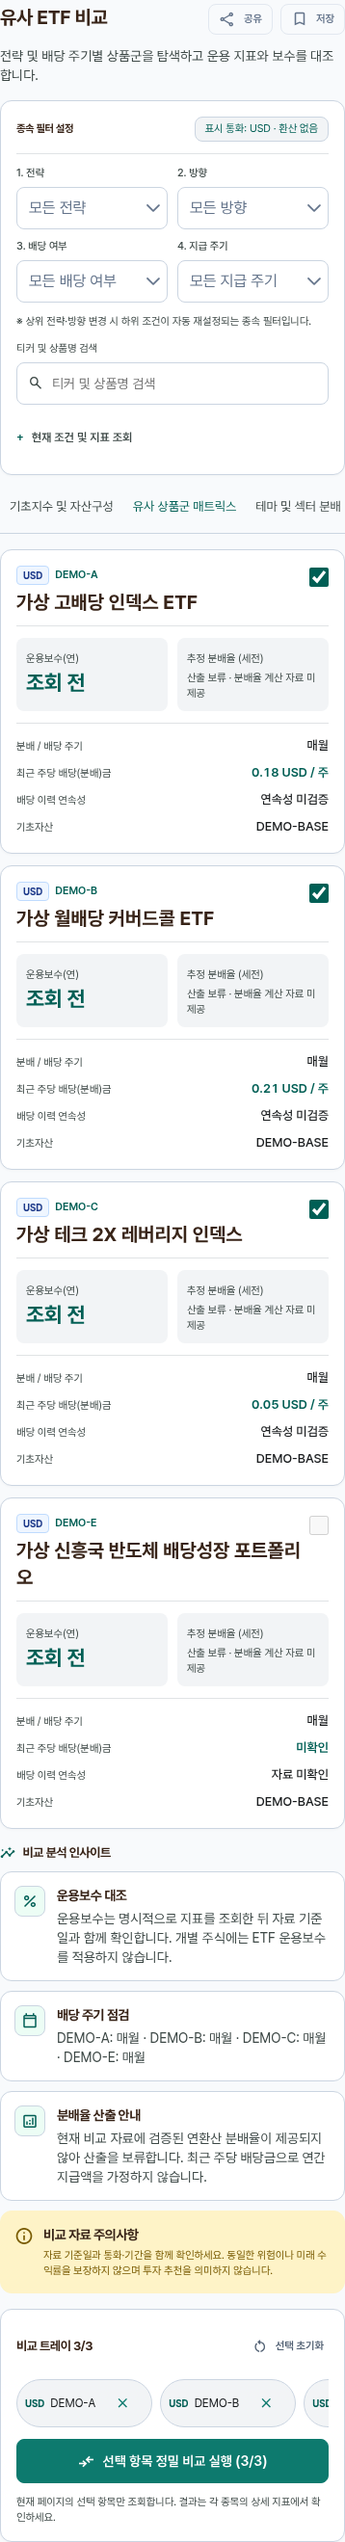
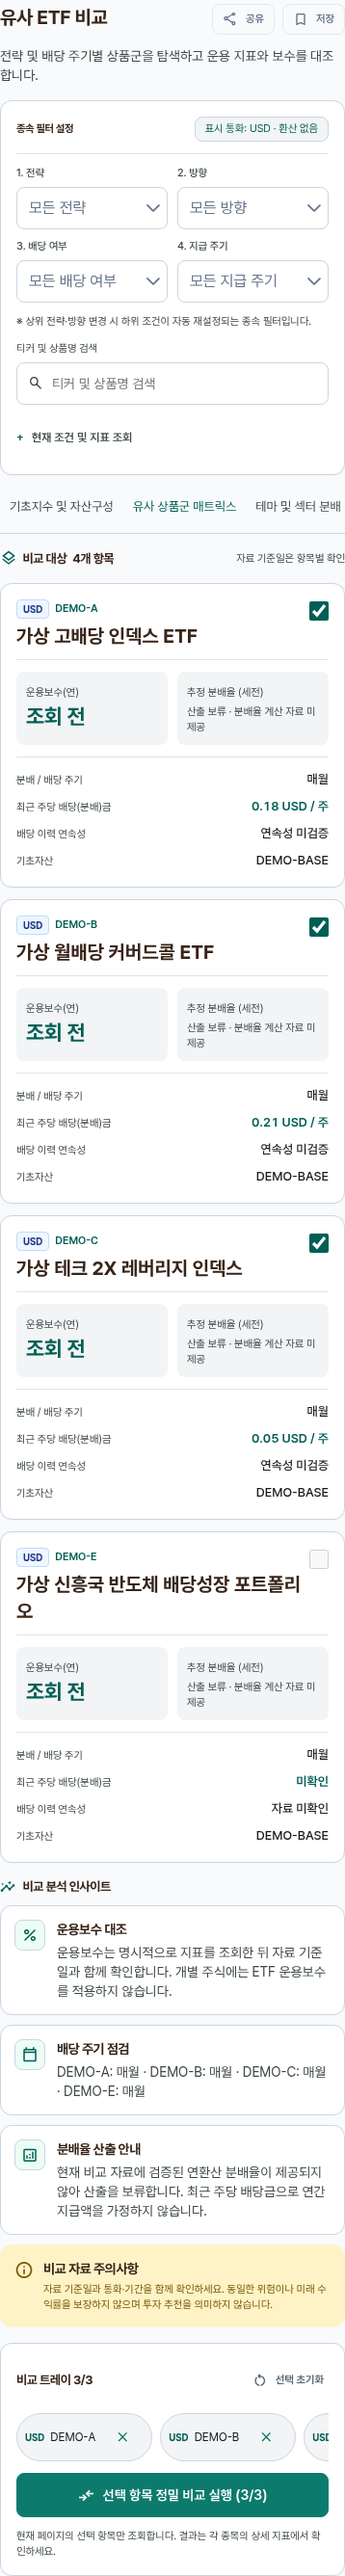
fix: 모바일 비교 요약 표시와 최종 캡처 정정

diff --git a/src/components/comparison/ResponsiveComparison.vue b/src/components/comparison/ResponsiveComparison.vue
@@ -580,6 +580,7 @@
         <template v-if="analysisView === 'matrix'">
             <div class="responsive-results-heading comparison-result-count">
                 <h2>
+                    <i v-if="!isTheme" class="pi pi-clone" aria-hidden="true" />
                     {{ isTheme ? '지표별 상세 대조표' : '비교 대상' }}
                     <span>{{ total }}개 항목</span>
                 </h2>
@@ -1175,6 +1176,9 @@
     .responsive-comparison :deep(.pi-sliders-h) {
         --comparison-symbol: 'balance';
     }
+    .responsive-comparison :deep(.pi-clone) {
+        --comparison-symbol: 'layers';
+    }
     .tray-compare-button :deep(.pi-chart-bar) {
         --comparison-symbol: 'compare_arrows';
     }
@@ -1650,8 +1654,16 @@
         gap: 12px;
     }
     .responsive-results-heading h2 {
+        display: flex;
+        align-items: center;
+        gap: 6px;
         font-size: 13px;
         line-height: 18px;
+    }
+    .responsive-results-heading h2 .pi {
+        font-size: 18px;
+        line-height: 18px;
+        color: var(--app-accent);
     }
     .responsive-results-heading > span {
         color: var(--app-muted);
@@ -2187,15 +2199,14 @@
         }
         .responsive-comparison:not(.theme-comparison)
             .responsive-results-heading {
+            display: flex;
+        }
+        .theme-comparison .responsive-results-heading {
             display: none;
         }
         .heading-actions :deep(.pi) {
-            font-size: 18px;
-            line-height: 18px;
-        }
-        .tray-compare-button :deep(.pi) {
-            font-size: 18px;
-            line-height: 18px;
+            font-size: 16px;
+            line-height: 16px;
         }
         .responsive-results-heading {
             margin: 0;

diff --git a/docs/design/stitch-v3/COMPARISON_RESPONSIVE.md b/docs/design/stitch-v3/COMPARISON_RESPONSIVE.md
@@ -64,6 +64,8 @@ UI_BASE_URL=http://127.0.0.1:5175 COMPARISON_BASELINE_URL=http://127.0.0.1:5176 
 | 유사 Mobile 카드    | 393px   | 316px   | 306.5px   |
 | 테마 Mobile 첫 카드 | 365px   | 282px   | 290~294px |
 
+최종 이미지 검토에서 모바일 유사 비교의 대상 수 제목을 숨기던 CSS 충돌을 수정했다. 유사 Mobile의 대상 수 요약 표시와 Theme Mobile의 원본 카드 시작 위치를 명시적으로 검사하고 캡처를 갱신했다.
+
 원본의 예시 카드보다 실제 이름·분류·값·확인 상태가 길거나 짧을 수 있어 고정 높이로 자르지 않았다. 후속에서도 카드 폭 358px, 필터 44px, 태블릿 필터 두 열 폭, 제목 30/38·20/28·24/32px 계약은 유지한다. PC 유사·테마 및 모바일 기초자산의 변경 전후 캡처 해시는 다시 동일했다.
 
 후속 검증은 전용 14상태(탭 미제공 의미/무조회·Dialog/초점 복귀 추가), 기존 지표 9상태, 기존 우선 패널 3폭, 변경 파일 린트·타입 검사·빌드를 통과했다. 우선 패널의 첫 병렬 실행은 다른 자산관리 화면의 `.asset-currency-summary` 대기에서 타임아웃이 났고 수정 없이 재실행한 3폭은 통과했다. 원인은 확정하지 않으며 실패 로그와 재실행 로그를 작업 환경에 보존했다.
